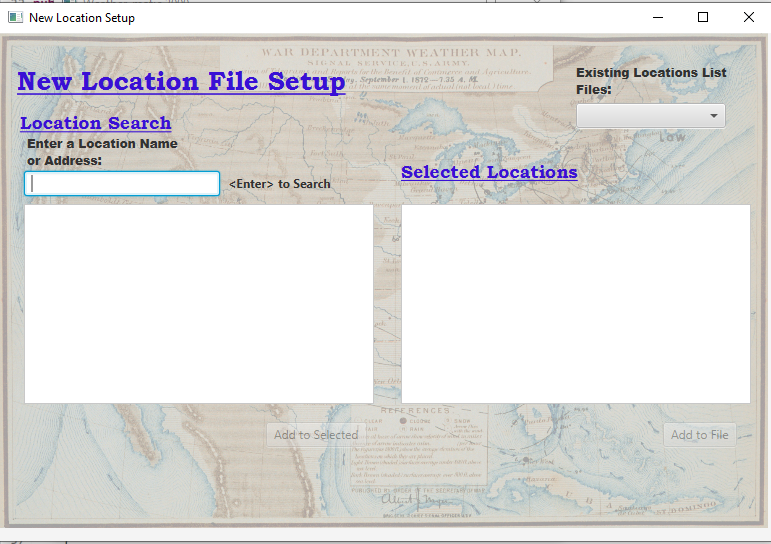
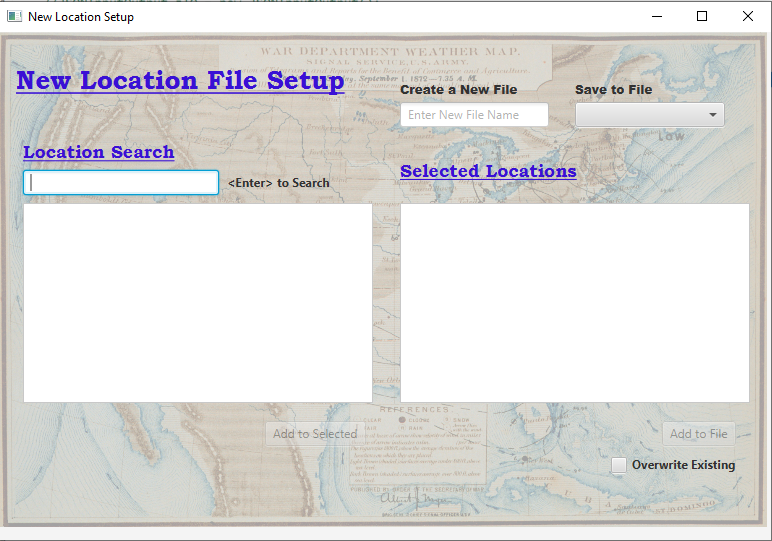
added photos to readme. Changed boolean in jsonIO to match UI

diff --git a/src/application/JSONInputOutput.java b/src/application/JSONInputOutput.java
@@ -25,7 +25,7 @@ public class JSONInputOutput {
 	 * @param locations
 	 * @param filename
 	 */
-	public void fileWriter(ArrayList<Location> locations, String filename, Boolean append) {
+	public void fileWriter(ArrayList<Location> locations, String filename, Boolean overwrite) {
 		
 		//Setup a directory called SavedSearches in the current directory if it doesn't exist
 		String directoryPath = System.getProperty("user.dir") + "/SavedSearches/";
@@ -36,7 +36,7 @@ public class JSONInputOutput {
 		}
 		
 		//If the append flag is passed in, read in the locations in the file and add them to the locations passed in.
-		if (append) {
+		if (!overwrite) {
 			ArrayList<Location> locationsAlreadyInFile = fileReader(filename);
 			if (locationsAlreadyInFile != null) {
 				for (Location l : locationsAlreadyInFile) {
@@ -84,7 +84,7 @@ public class JSONInputOutput {
 	 * @param filename
 	 */
 	public void fileWriter(ArrayList<Location> locations, String filename) {
-		fileWriter(locations, filename, false);
+		fileWriter(locations, filename, true);
 	}
 	
 	/**
